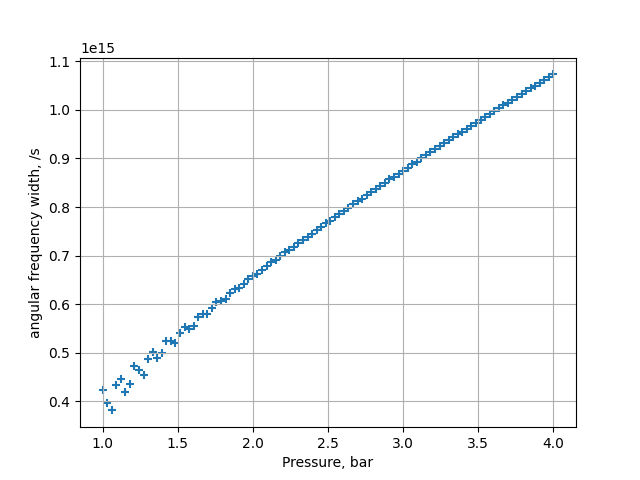
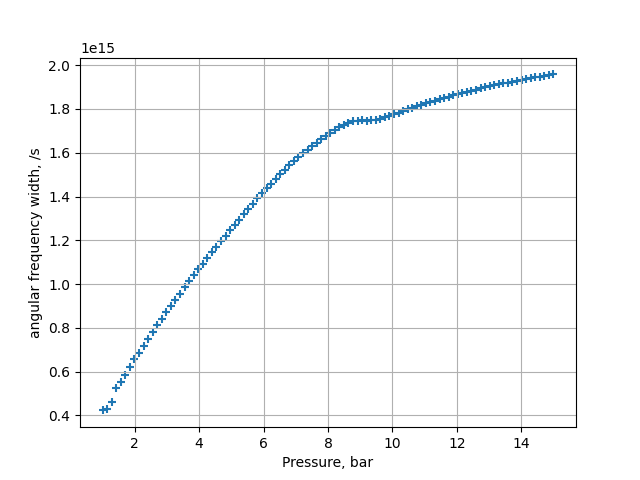
updated pressure plot

diff --git a/HCF sim/Python/building datasets/energy_and_pressure_vs_rms_width.py b/HCF sim/Python/building datasets/energy_and_pressure_vs_rms_width.py
@@ -1,0 +1,58 @@
+import julia
+import matplotlib.pyplot as plt
+
+julia.Julia(runtime="C:\\Users\\ML\\AppData\\Local\\Programs\\Julia-1.7.0\\bin\\julia.exe")
+
+from julia import Main
+
+Main.using("Luna")
+
+from rms_width import *
+# Arguments
+radius = 125e-6 # HCF core radius
+flength = 1 # HCF length
+gas = "Ne"
+pressures =  np.linspace(1.,15.,20)# gas pressure in bar, corresponds to 66% of final pressure in atm
+λ0 = 800e-9 # central wavelength of the pump pulse
+energies = np.linspace(0.1e-3,2.0e-3,20) # array of energies in the pump pulse
+τfwhm = 30e-15 # FWHM durations of the pump pulse
+
+# Assign arguments to Main namespace
+Main.radius = radius
+Main.flength = flength
+Main.τfwhm = τfwhm
+Main.gas_str = gas
+Main.eval("gas = Symbol(gas_str)")
+Main.λ0 = λ0
+widths=np.zeros((len(energies),len(pressures)))
+
+for i in range(len(energies)):
+    Main.energy = energies[i]
+    print(energies[i])
+    for j in range(len(pressures)):
+        print(pressures[j])
+        Main.pressure = pressures[j]
+        # Calculations
+        # setting pressure to (0,pressure) means a gradient from zero up until given value
+        Main.duv = Main.eval('duv = prop_capillary(radius, flength, gas, pressure; λ0, τfwhm, energy, trange=400e-15, λlims=(150e-9, 4e-6))')
+
+        #now extract datasets
+        Main.eval("ω, Iω = Processing.getIω(duv, :ω, flength)")
+        Main.eval('t, Et = Processing.getEt(duv)')
+
+        ## These next lines show how t, Et and zactual could be accessed in the Python namespace for analysis
+        # Once defined, the same method as in time_1d can be used to get the y data needed for analysis of the curve (max heigh, FWHM, etc.), which
+        # subsequently would be the inputs the the BO 
+        #assign python variables
+        ω = Main.ω
+        Iω = Main.Iω
+        width=rms_width(ω,Iω)
+        widths[i][j]=width
+
+plt.imshow(widths, extent=(np.amin(pressures)*10**15, np.amax(pressures)*10**15,np.amin(energies)*10**3, np.amax(energies)*10**3), aspect = 'auto', origin="lower")
+plt.xlabel("Pressure, bar")
+plt.ylabel("Pulse energy, mJ")
+#legend
+cbar = plt.colorbar()
+cbar.ax.set_ylabel('angular frequency bandwidth', rotation=270, labelpad=15)
+plt.show()

diff --git a/HCF sim/Python/building datasets/pressure_vs_rms_width.py b/HCF sim/Python/building datasets/pressure_vs_rms_width.py
@@ -12,7 +12,7 @@ from rms_width import *
 radius = 125e-6 # HCF core radius
 flength = 1 # HCF length
 gas = "Ne"
-pressures = np.linspace(1.,4.,100) # array of gas pressures in bar, corresponds to 66% of final pressure in atm
+pressures = np.linspace(1.,15.,100) # array of gas pressures in bar, corresponds to 66% of final pressure in atm
 λ0 = 800e-9 # central wavelength of the pump pulse
 τfwhm = 30e-15 # FWHM duration of the pump pulse
 energy=0.5e-3
